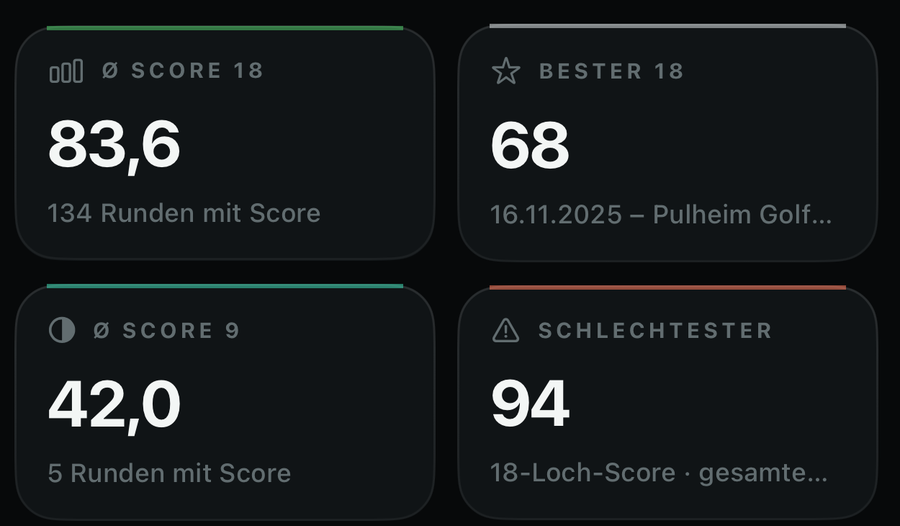
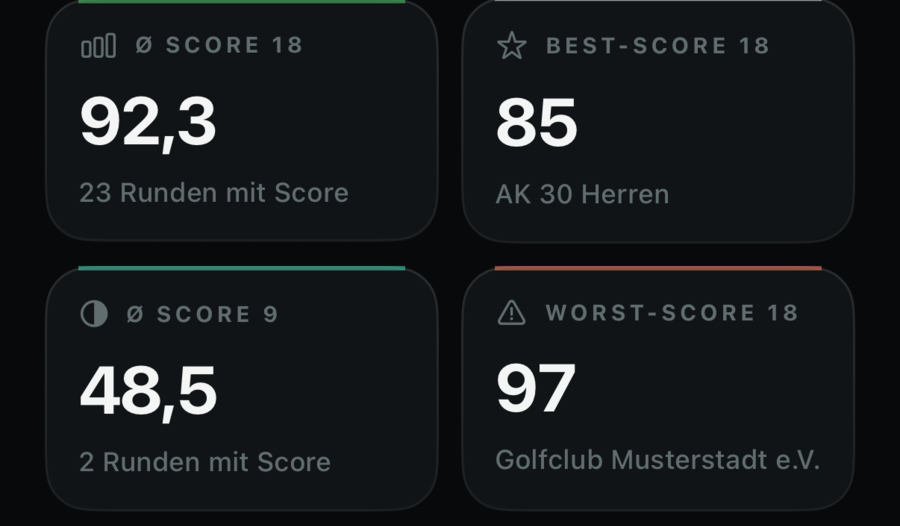
feat(web): Screenshots vom aktuellen App-Stand (Verlaufskarte, Demo-Datensatz)

diff --git a/index.html b/index.html
@@ -52,7 +52,7 @@
       <div class="hero-art rv" style="--i:1">
         <div class="device">
           <img src="assets/img/iphone-uebersicht.png" width="660" height="1235"
-               alt="Übersicht in HandicapLab: Handicap-Index 10,0 mit Verlaufskurve, vier Statistik-Kacheln und das Score-Trend-Diagramm.">
+               alt="Übersicht in HandicapLab: Handicap-Verlaufskarte mit Index 15,2, vier Statistik-Kacheln und das Score-Trend-Diagramm.">
         </div>
       </div>
     </div>
@@ -102,7 +102,7 @@
               und der Bestwert der gesamten Historie.</p>
           </div>
           <figure><img src="assets/img/crop-hcpi.png" width="900" height="410"
-            alt="Leitwert-Karte mit Handicap-Index 10,0 und Sparkline über zwölf Monate."></figure>
+            alt="Handicap-Verlaufskarte mit Index 15,2, Low HCPI und Kurve über zwölf Monate."></figure>
         </article>
 
         <article class="cell cell-b rv" style="--i:1">
@@ -194,7 +194,7 @@
       <div class="wide-art rv" style="--i:1">
         <div class="device device-wide">
           <img src="assets/img/ipad-uebersicht.png" width="1440" height="846"
-               alt="HandicapLab auf dem iPad: Seitenleiste mit Profil und Navigation, rechts Handicap-Index, Statistik-Kacheln und Score-Trend nebeneinander.">
+               alt="HandicapLab auf dem iPad: Seitenleiste mit Navigation, rechts Handicap-Verlaufskarte, Statistik-Kacheln und Score-Trend nebeneinander.">
         </div>
       </div>
     </div>
